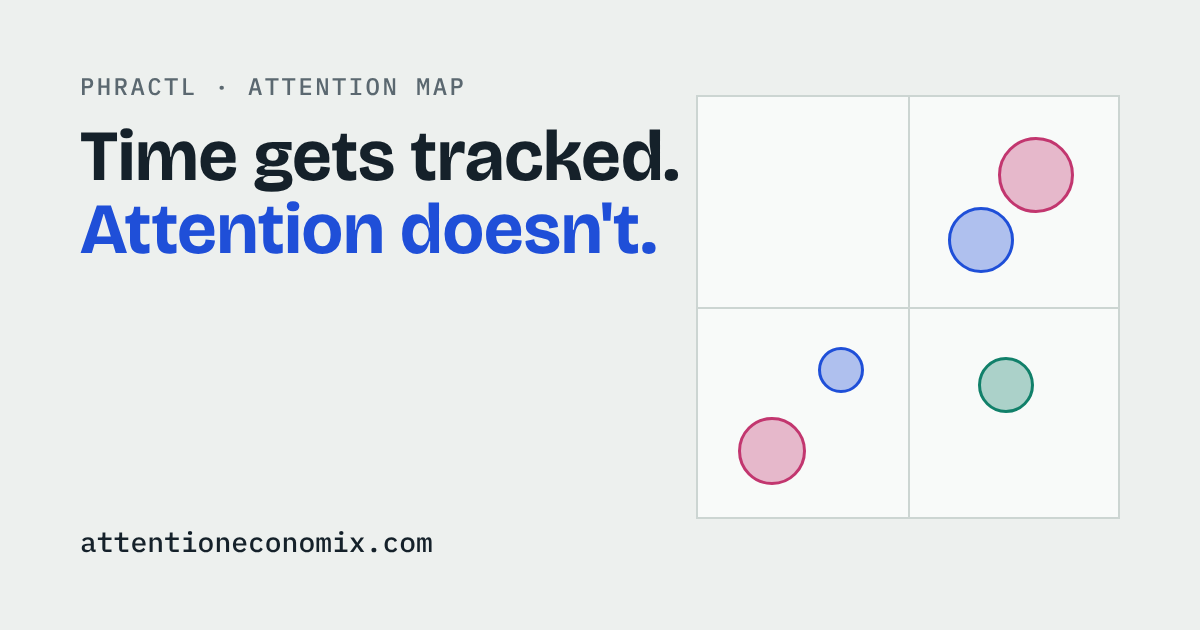
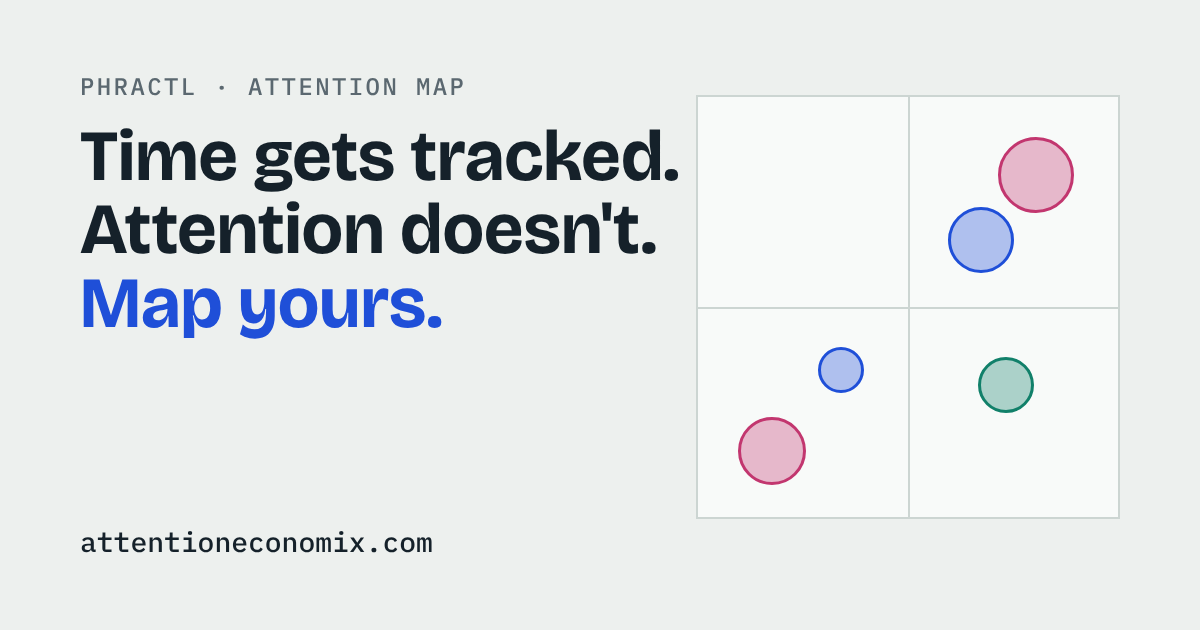
Add 'Map yours.' to tagline on card, preview, share text and intro
Claude-Session: https://claude.ai/code/session_01L1LiHHegNLNSWRbuAUu8ii

Changed region(s): [[0.0617, 0.3016, 0.555, 0.5429]]

diff --git a/index.html b/index.html
@@ -8,7 +8,7 @@
 <link rel="canonical" href="https://attentioneconomix.com/">
 <meta property="og:type" content="website">
 <meta property="og:url" content="https://attentioneconomix.com/">
-<meta property="og:title" content="Time gets tracked. Attention doesn't.">
+<meta property="og:title" content="Time gets tracked. Attention doesn't. Map yours.">
 <meta property="og:description" content="Map the tasks, people and places in your week. Find your sweet spots, your energy drains and your pain in the arse.">
 <meta property="og:image" content="https://attentioneconomix.com/og-image.png">
 <meta property="og:image:width" content="1200">
@@ -158,7 +158,7 @@ footer{color:var(--muted);font-size:13px;max-width:70ch}
     <div class="brand">@phractl · attention map</div>
     <h1>Where does your <em>attention</em> actually go?</h1>
     <p class="lede">Add the tasks, people and places that take up your attention, and answer six quick statements about each. You'll see how much focus each one takes, whether it brings you pleasure or pressure, and whether you chose it or it chose you.</p>
-    <p class="why"><b>Why it matters.</b> Time gets tracked. Attention doesn't. It's your most expensive resource, and a lot of it goes to things you never chose.</p>
+    <p class="why"><b>Why it matters.</b> Time gets tracked. Attention doesn't. It's your most expensive resource, and a lot of it goes to things you never chose. Map yours.</p>
   </header>
 
   <section class="card" aria-labelledby="t-tasks">
@@ -566,18 +566,19 @@ function drawCard(){
   const zc={"Sweet spot":CARD.task,"Worthwhile duty":CARD.warm,"Self-made pressure":CARD.warm,"Energy drain":"#B43C3C","Pain in the arse":CARD.pain};
   let y=my+ms+(story?120:100);const lh=story?62:52,zf=story?32:27;
   zones.forEach(z=>{const names=items.filter(r=>zone(r.d,r.t).n===z).map(r=>r.t.name);if(!names.length)return;
-    if(y>Ht-(story?170:120))return;
+    if(y>Ht-(story?210:150))return;
     ctx.font=`700 ${zf}px ${FONT_D}`;ctx.fillStyle=zc[z];const lab=z+":";ctx.fillText(lab,pad,y);
     const lw=ctx.measureText(lab).width+14;ctx.font=`400 ${zf}px ${FONT_B}`;ctx.fillStyle=CARD.ink;ctx.fillText(fitText(ctx,names.join(", "),Wd-2*pad-lw),pad+lw,y);y+=lh;});
   if(!items.length){ctx.font=`400 ${zf}px ${FONT_B}`;ctx.fillStyle=CARD.muted;ctx.fillText("Answer a few questions to fill your map.",pad,y);}
-  ctx.fillStyle=CARD.ink;ctx.fillRect(0,Ht-(story?120:96),Wd,story?120:96);
-  ctx.fillStyle=CARD.bg;ctx.font=`500 30px ${FONT_D}`;ctx.fillText("Time gets tracked. Attention doesn't.",pad,Ht-(story?48:38));
-  ctx.textAlign="right";ctx.font=`500 ${story?28:24}px ${FONT_M}`;ctx.fillText(SITE,Wd-pad,Ht-(story?48:38));ctx.textAlign="left";
+  const fh=story?160:128;ctx.fillStyle=CARD.ink;ctx.fillRect(0,Ht-fh,Wd,fh);
+  const tl="Time gets tracked. Attention doesn't. ";ctx.font=`500 ${story?34:30}px ${FONT_D}`;ctx.fillStyle=CARD.bg;ctx.fillText(tl,pad,Ht-fh+(story?66:54));const tw=ctx.measureText(tl).width;
+  ctx.fillStyle="#9DB4FF";ctx.font=`700 ${story?34:30}px ${FONT_D}`;ctx.fillText("Map yours.",pad+tw,Ht-fh+(story?66:54));
+  ctx.fillStyle="#93A2AA";ctx.font=`500 ${story?26:22}px ${FONT_M}`;ctx.fillText(SITE,pad,Ht-fh+(story?116:96));
 }
 function cardTitle(){const n=(state.userName||"").trim();return n?`${n}${/s$/i.test(n)?"’":"’s"} attention map`:"My attention map";}
 function cardBlob(){return new Promise(r=>el("card").toBlob(r,"image/png"));}
 function shareNote(m){const n=el("shareNote");n.textContent=m;n.hidden=!m;}
-const SHARE_TEXT="Mapped my attention with @phractl. Time gets tracked. Attention doesn't.",SHARE_URL="https://"+SITE+"/";
+const SHARE_TEXT="Mapped my attention with @phractl. Time gets tracked. Attention doesn't. Map yours.",SHARE_URL="https://"+SITE+"/";
 async function cardFile(){const b=await cardBlob();return new File([b],"my-attention-map.png",{type:"image/png"});}
 const touch=()=>window.matchMedia&&matchMedia("(pointer:coarse)").matches;
 async function nativeShare(){const f=await cardFile();track("share-sheet-open");await navigator.share({files:[f],title:cardTitle(),text:SHARE_TEXT,url:SHARE_URL});}
